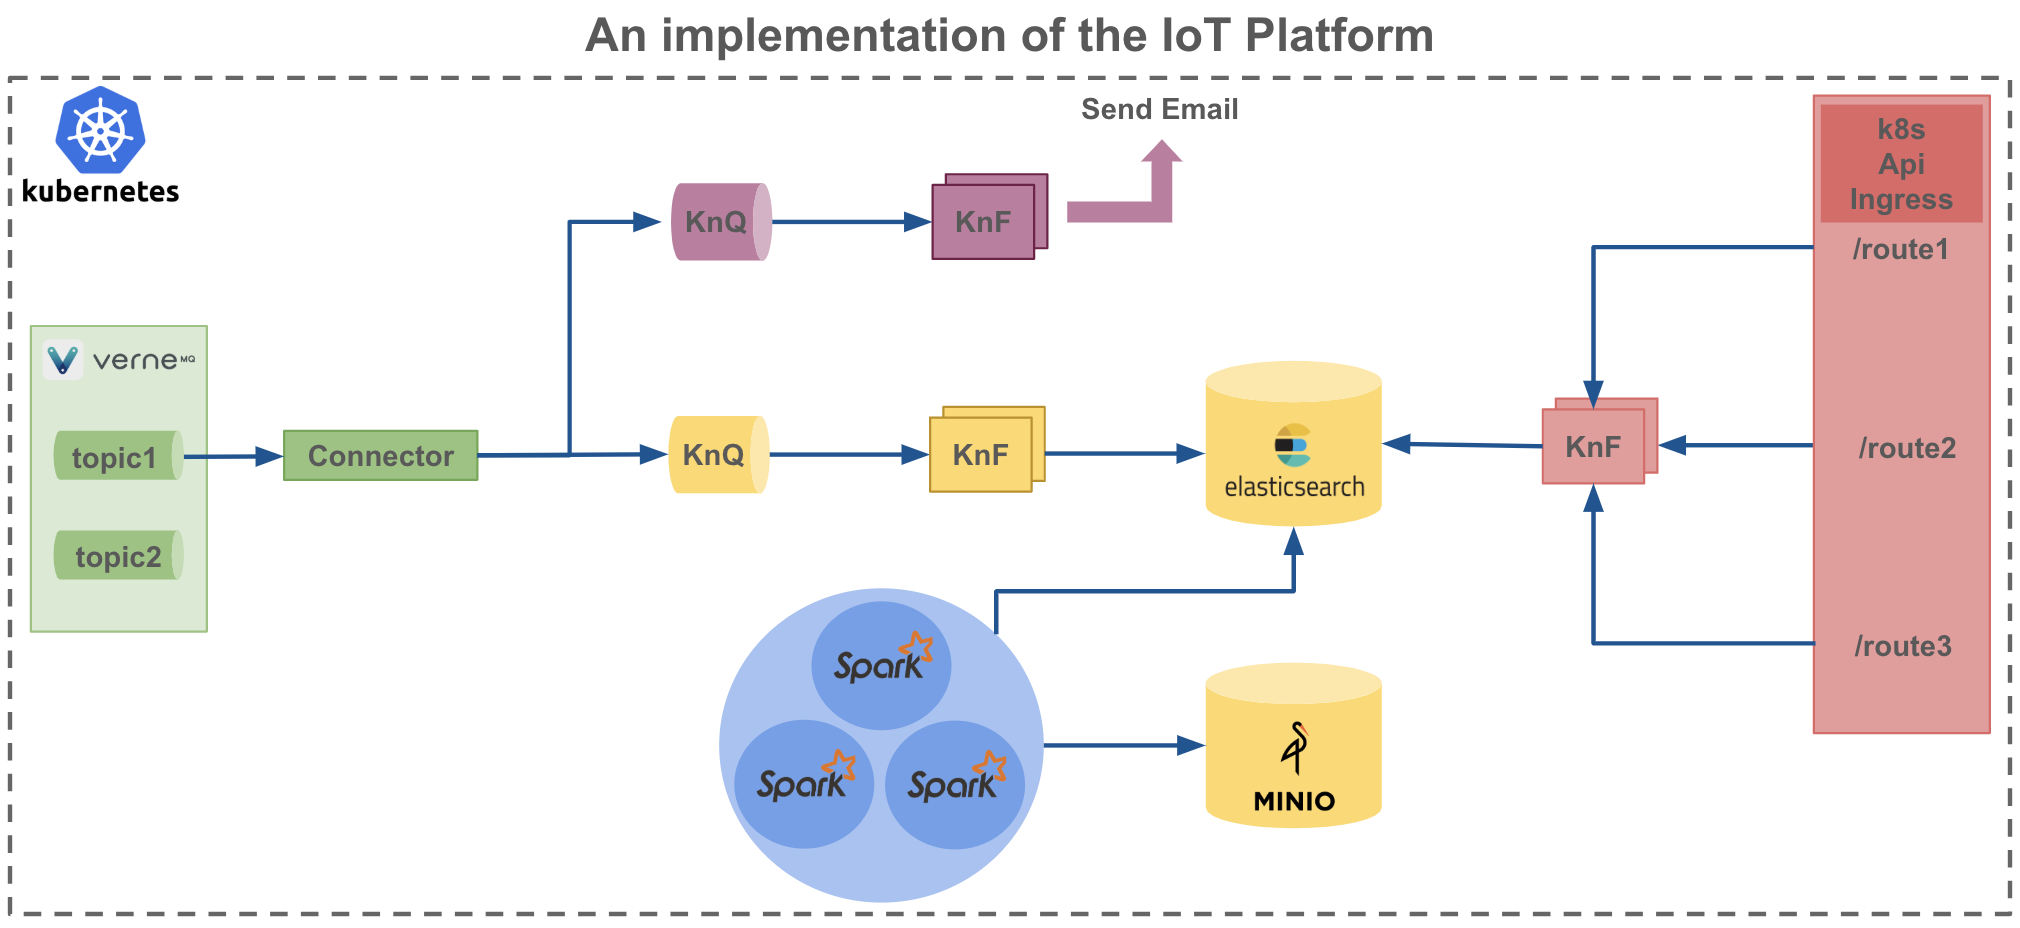
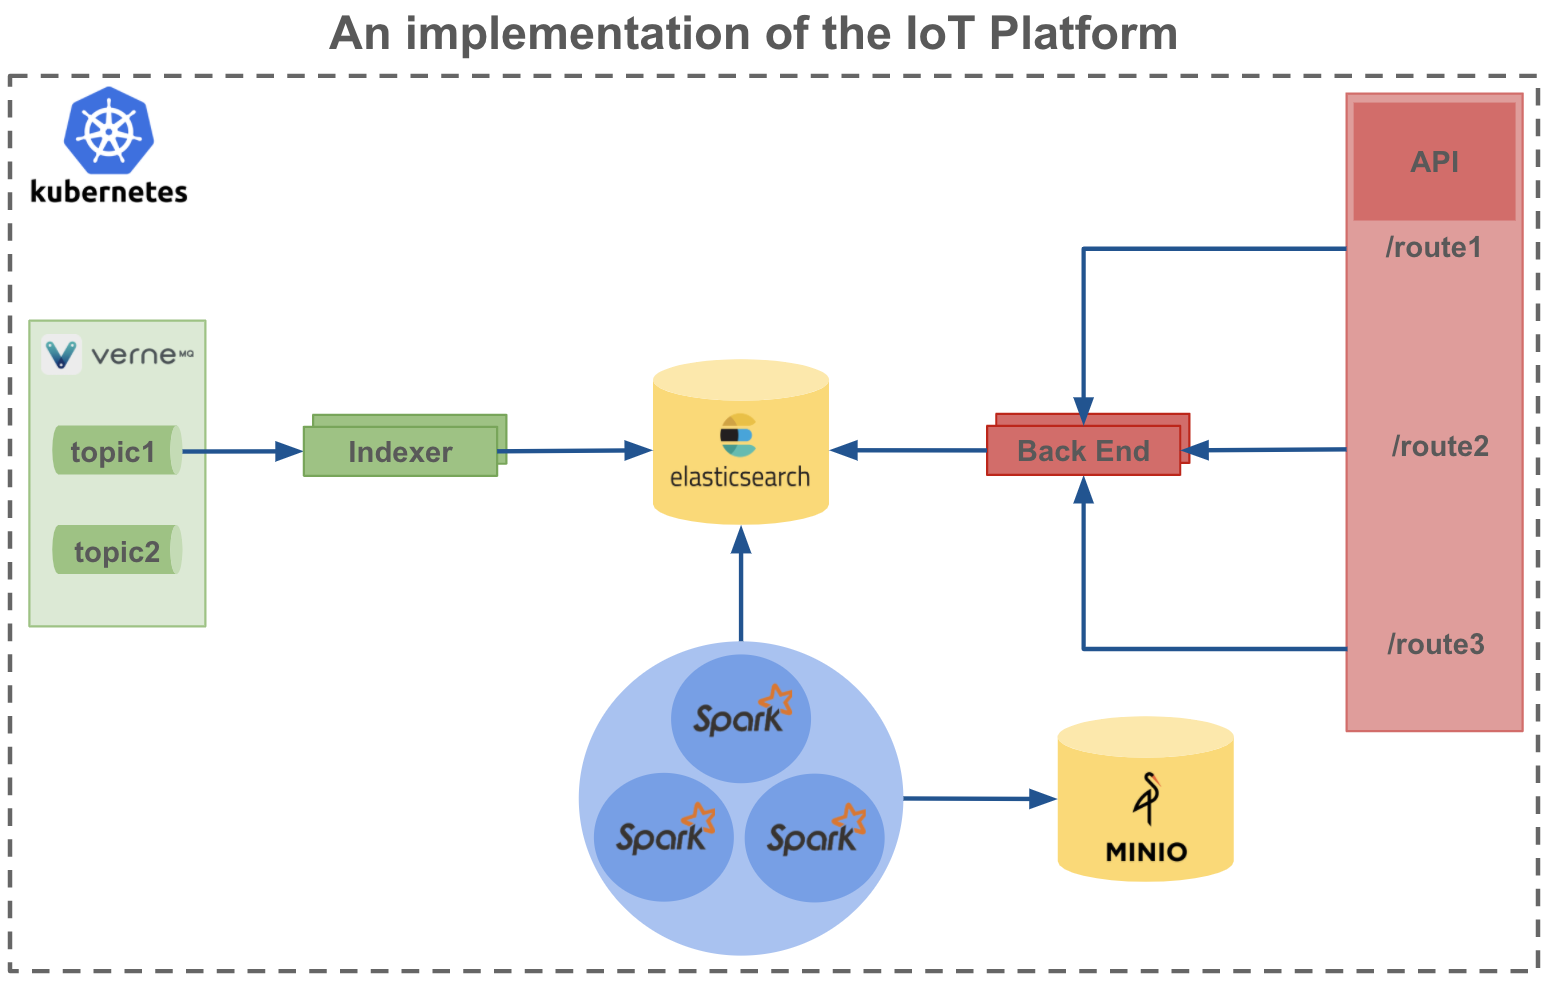
[ADD][dev] update readme

Changed region(s): [[0.0, 0.0, 1.0, 1.0]]

diff --git a/README.md b/README.md
@@ -1,6 +1,6 @@
 # Project `smart-agriculture-with-k8s`
 
-Build a smart agriculture project with Kubernetes and Knative
+Build a smart agriculture project with Kubernetes
 
 ## How to begin ?
 
@@ -16,12 +16,15 @@ Create a [GCP account](https://console.cloud.google.com/)
 Create a GCP project by given a project-id
 - example: my-iot-project
 
-### Increase quota for IP addresses
-- Go to `IAM and Administration/quota/` (as indicated below)
-- Search for `In-use IP addresses` and request to increase quota from 8 IP to 20 IP
-- Unfortunately, it takes almost two days to be validated by GCP 
+### Requirements for project CLI
 
-![Increase number of external IP](documents/increase-ip-quota.png)
+This project offers its own CLI `./deploy/deployer.sh` to test, create the cluster, deploy applications or delete all.
+
+In case you want to use project CLI, you need to install:
+- [Google Cloud SDK](https://cloud.google.com/sdk/docs/quickstarts), then run: `gcloud auth login`
+- [helm](https://helm.sh/docs/intro/install/), the package manager for Kubernetes
+- [Docker](https://docs.docker.com/get-docker/), configure Docker for a specific repository
+    - Here we used GCP Container Repository: `gcloud auth configure-docker`
      
 ### Get private key file
 - Go to `IAM and Administration/quota/` (as indicated below)
@@ -32,7 +35,7 @@ Create a GCP project by given a project-id
 
 ### Give admin role to your service account
 - Go to `IAM and Administration/IAM/` (as indicated below)
-- Give role `owner` to your service account to be able to deploy with Gitlab CICD
+- Give role `owner` to your service account to be able to deploy with Gitlab CI/CD
 
 ![Admin role for service account](documents/give_admin_role_to_service_account.png)
      
@@ -43,8 +46,7 @@ First we divide our plateform into microservices, here below the representation:
 ![Architecture of IoT Project](documents/microservices.png)
 
 - Device management: manage reception of data from device
-- Notification: send a notification (for example: email) to some users when a data received exceeds some thresholds
-- Storage: store data received in different data storages
+- Storage: store data received in different data storages (Elasticsearch and Minio)
 - Data processing: Predefined Batch processes
 - Data Access: Expose data to users through API REST
 
@@ -78,19 +80,17 @@ To deploy all application either with the Gitlab CICD pipeline (see the followin
 
 ![Set environment variables in Gitlab](documents/set_environment_variables_in_gitlab.png)
 
-
 ### Run unit tests for IoT Platform with command lines
 
 Run the following script to run all unit tests:
 
     ./deploy/deployer.sh test-unit
 
-
 ### Install IoT Platform with command lines
 
-Run the following command to allocate external static IP addresses and create localy self signed ssl certificates
+Run the following command to allocate external static IP addresses and create locally self signed ssl certificates
 
-    ./deploy/deployer.sh create-certificates <environment> # 
+    ./deploy/deployer.sh create-certificates <environment>
 
 Then, either use the cli to install this IoT platform on your GCP Account:
 
